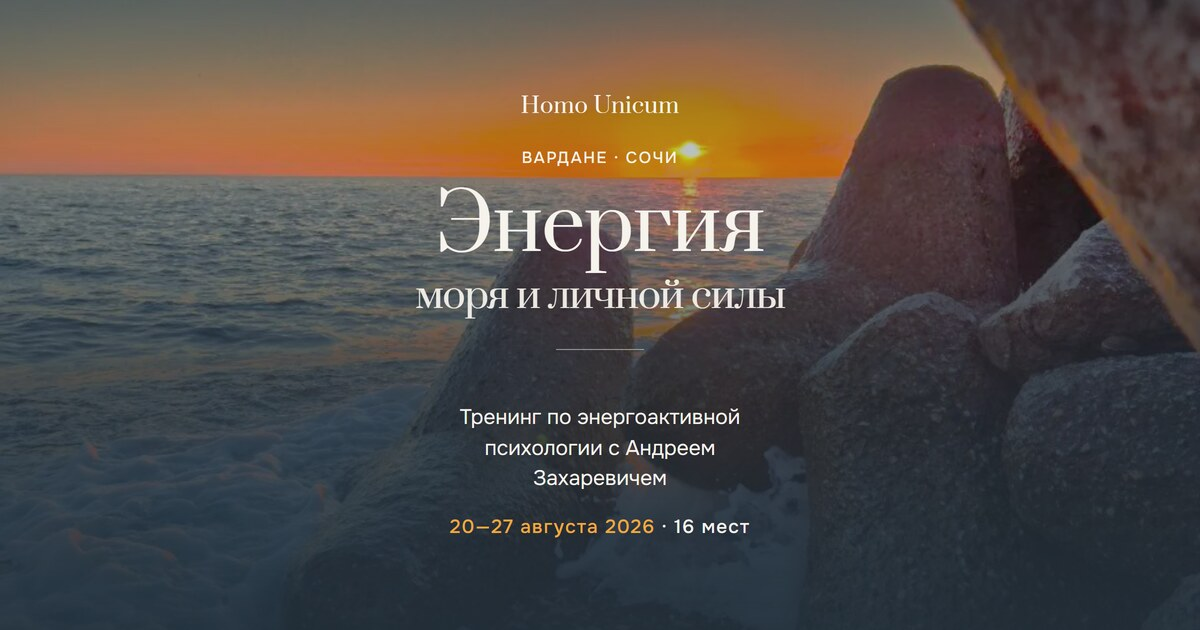
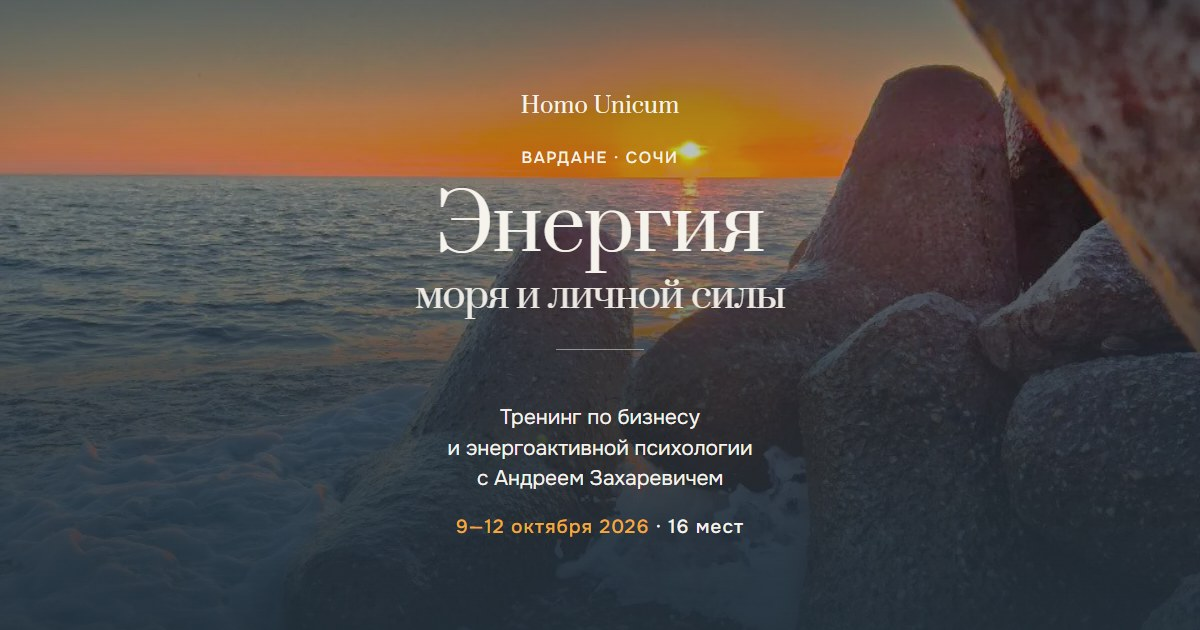
Страница переведена на тренинг 9—12 октября 2026
Августовский ретрит закончился, все три волны цены истекли и рендерились
приглушёнными — на странице не было ни одного живого предложения.

Событие заменено, а не продублировано:
- даты 9—12 октября (4 дня / 3 ночи) в title, OG, хиро, футере и JSON-LD;
  «7 дней» → «4 дня» в полосе цифр, результатах и составе участия
- ночные процессы: «через день» → одна сессия за тренинг (4 дня вместо 7),
  синхронно поправлены карточка «Что входит» и вопрос в FAQ
- дедлайны волн пересчитаны по августовским интервалам от новой даты заезда:
  24 сентября / 4 октября / 8 октября. Цена участия не менялась.
  Третья волна больше не истекает в день заезда — сдвинута на канун
- новая тарифная сетка ретрит-центра: проживание теперь с двухразовым питанием,
  от 4 000 ₽ (двухместный стандарт) до 8 000 ₽ (одноместный люкс) с человека
  в сутки. Отдельной строки «питание 1 500 ₽/день» больше нет,
  пример бюджета — от 82 000 ₽
- в FAQ добавлен вопрос «Что входит в проживание?» — про размещение
  на странице не было ни слова
- блок цен перекомпонован в два ряда: тарифная сетка удлиняла правую колонку
  на ~400 px и левая обрывалась в пустоту
- og-cover-v2.jpg перерисован: в картинку была вшита августовская дата

Заодно уходит незакоммиченное переименование площадки «Лето» → «Энергия солнца».

diff --git a/index.html b/index.html
@@ -3,16 +3,16 @@
 <head>
 <meta charset="UTF-8">
 <meta name="viewport" content="width=device-width, initial-scale=1.0">
-<title>Энергия моря и личной силы — выездной тренинг Андрея Захаревича, Вардане, 20—27 августа 2026</title>
-<meta name="description" content="Семь дней на берегу моря с автором энергоактивной психологии: снять выгорание, вернуть ясность мышления и пересобрать стратегию. Ретрит-центр «Лето», Вардане, Сочи. Участие от 70 000 ₽.">
+<title>Энергия моря и личной силы — тренинг по бизнесу Андрея Захаревича, Вардане, 9—12 октября 2026</title>
+<meta name="description" content="Четыре дня на берегу моря с автором энергоактивной психологии: снять выгорание, вернуть ясность мышления и пересобрать бизнес-стратегию. Ретрит-центр «Энергия солнца», Вардане, Сочи. Участие от 70 000 ₽.">
 <link rel="canonical" href="https://moresily.ru/">
-<meta property="og:title" content="Энергия моря и личной силы — Вардане, Сочи, 20—27 августа 2026">
-<meta property="og:description" content="Выездной тренинг Андрея Захаревича по энергоактивной психологии. Семь дней в ретрит-центре «Лето»: практики, работа с группой, море.">
+<meta property="og:title" content="Энергия моря и личной силы — Вардане, Сочи, 9—12 октября 2026">
+<meta property="og:description" content="Тренинг по бизнесу и энергоактивной психологии с Андреем Захаревичем. Четыре дня в ретрит-центре «Энергия солнца»: практики, работа с группой, море.">
 <meta property="og:type" content="website">
 <meta property="og:locale" content="ru_RU">
 <meta property="og:url" content="https://moresily.ru/">
 <meta property="og:image" content="https://moresily.ru/visual/og-cover-v2.jpg">
-<meta property="og:image:alt" content="Энергия моря и личной силы — Вардане, Сочи, 20—27 августа 2026">
+<meta property="og:image:alt" content="Энергия моря и личной силы — Вардане, Сочи, 9—12 октября 2026">
 <meta name="twitter:card" content="summary_large_image">
 <meta property="og:image:width" content="1200">
 <meta property="og:image:height" content="630">
@@ -691,9 +691,9 @@ a.sr-only:focus { left:0; top:0; width:auto; height:auto; z-index:60;
     <div class="hero-scrim"></div>
     <div class="hero-in">
       <div class="hero-bot">
-        <p class="eb hero-eb">Вардане · Сочи · 20—27 августа 2026</p>
+        <p class="eb hero-eb">Вардане · Сочи · 9—12 октября 2026</p>
         <h1 class="hero-h1"><b>Энергия</b><i>моря и личной силы</i></h1>
-        <p class="hero-sub">Тренинг по энергоактивной психологии с Андреем Захаревичем</p>
+        <p class="hero-sub">Тренинг по бизнесу и энергоактивной психологии с Андреем Захаревичем</p>
         <p class="hero-claim">Как снять выгорание, пересобрать бизнес-стратегию и выйти на кратный доход<span class="hero-up" aria-hidden="true">↑</span></p>
         <a class="btn hero-cta" href="#form">Забронировать место</a>
       </div>
@@ -705,10 +705,10 @@ a.sr-only:focus { left:0; top:0; width:auto; height:auto; z-index:60;
     <div class="wrap">
       <div class="hr hr--sea"></div>
       <div class="nums stg">
-        <div><div class="num"><span class="count" data-to="7">7</span></div><p class="eb">дней</p></div>
+        <div><div class="num"><span class="count" data-to="4">4</span></div><p class="eb">дня</p></div>
         <div><div class="num num--gold"><span class="count" data-to="16">16</span></div><p class="eb">мест в группе</p></div>
         <div><div class="num"><span class="count" data-to="40">40</span></div><p class="eb">лет практики автора</p></div>
-        <div><div class="num"><span class="num--gold">20</span>.08</div><p class="eb">заезд</p></div>
+        <div><div class="num"><span class="num--gold">09</span>.10</div><p class="eb">заезд</p></div>
       </div>
     </div>
   </section>
@@ -931,7 +931,7 @@ a.sr-only:focus { left:0; top:0; width:auto; height:auto; z-index:60;
   <!-- ================= результаты · CTA 3 ================= -->
   <section class="sec">
     <div class="wrap">
-      <p class="eb rv">Результаты · через 7 дней</p>
+      <p class="eb rv">Результаты · через 4 дня</p>
       <h2 class="rv" style="max-width:720px;">С чем вы уезжаете</h2>
       <p class="lead rv" style="max-width:640px; margin-bottom:36px;">Не «вдохновение на пару недель». Ниже — то, что участники отмечают первым по возвращении.</p>
 
@@ -994,7 +994,7 @@ a.sr-only:focus { left:0; top:0; width:auto; height:auto; z-index:60;
             <div class="slot-head"><div class="slot-t">11:00</div><h3>Утренний модуль: энергетическая система</h3></div>
             <span class="acc-sign" aria-hidden="true"></span>
           </summary>
-          <div class="acc-panel"><p>Работа с энергетической системой человека: меридианы, энергетические центры, потоки и каналы, биологические поля разной плотности. Принципы активации энергосистемы и методы энергетической защиты. Темы распределены по всей неделе.</p></div>
+          <div class="acc-panel"><p>Работа с энергетической системой человека: меридианы, энергетические центры, потоки и каналы, биологические поля разной плотности. Принципы активации энергосистемы и методы энергетической защиты. Темы распределены по всем дням тренинга.</p></div>
         </details>
 
         <details class="acc slot rv">
@@ -1039,7 +1039,7 @@ a.sr-only:focus { left:0; top:0; width:auto; height:auto; z-index:60;
         <div class="slot-t">23:00</div>
         <div>
           <h3>Ночные трансформационные процессы</h3>
-          <p>До 03:00, через день. Авторская методика Андрея Захаревича: набор энергии и формирование высокого энергетического потенциала. На следующее утро после ночной практики – мягкий режим.</p>
+          <p>Одна ночная сессия за тренинг, с 23:00 до 03:00. Авторская методика Андрея Захаревича: набор энергии и формирование высокого энергетического потенциала. Наутро после неё – мягкий режим.</p>
         </div>
       </div>
     </div>
@@ -1052,12 +1052,12 @@ a.sr-only:focus { left:0; top:0; width:auto; height:auto; z-index:60;
         <p class="eb" style="margin-bottom:26px;">Что входит в программу</p>
         <div class="grid g3 stack stack--titles stg">
           <div class="card"><h3>Многомерные дневные процессы</h3><p>Два модуля с автором ежедневно: утренний – энергетическая система человека, дневной – энергетика бизнеса.</p></div>
-          <div class="card"><h3>Ночные трансформационные процессы</h3><p>Групповая практика с 23:00 до 03:00, проходит через день. Авторская методика набора энергии; следующее утро после неё – мягкий режим.</p></div>
+          <div class="card"><h3>Ночные трансформационные процессы</h3><p>Групповая практика с 23:00 до 03:00 — одна ночь за тренинг. Авторская методика набора энергии; следующее утро после неё – мягкий режим.</p></div>
           <div class="card"><h3>Энергоактивное дыхание</h3><p>Дыхание в заданном ритме под счёт ведущего — основной инструмент метода.</p></div>
           <div class="card"><h3>Практики привлечения энергии и разгрузки</h3><p>Упражнения на снятие накопленного напряжения — телесные и на концентрацию внимания.</p></div>
           <div class="card"><h3>Биоэнергетическая йога и упражнения</h3><p>Мягкая физическая работа утром: растяжка, подвижность, дыхание в движении. Утренние практики ведёт приглашённый мастер Павитра.</p></div>
           <div class="card"><h3>Взаимодействие с природной энергетикой</h3><p>Практики на берегу и в воде: бег, ходьба, плавание в заданном режиме.</p></div>
-          <div class="card"><h3>Оздоравливающее питание и сухое голодание</h3><p>Вегетарианский рацион, два приёма пищи: завтрак и обед. Два дня за тренинг – воздержание от пищи и воды (сухой голод): строго по желанию, только после анкеты здоровья и согласования с ведущим.</p></div>
+          <div class="card"><h3>Оздоравливающее питание и сухое голодание</h3><p>Вегетарианский рацион, два приёма пищи: завтрак и обед — входят в стоимость проживания. День сухого голодания – воздержание от пищи и воды: строго по желанию, только после анкеты здоровья и согласования с ведущим.</p></div>
           <div class="card"><h3>Банные практики и холодовые воздействия</h3><p>Контрастные процедуры. Участие добровольное, интенсивность выбираете сами.</p></div>
         </div>
       </div>
@@ -1114,7 +1114,7 @@ a.sr-only:focus { left:0; top:0; width:auto; height:auto; z-index:60;
       <p class="lead rv" style="max-width:640px; margin-bottom:32px;">Что может быть лучше, чем соединить трансформационный тренинг с отдыхом в красивейшем месте на черноморском побережье.</p>
       <p class="eb rv">Ведь это</p>
       <div class="perks stg" style="max-width:1040px;">
-        <div style="display:grid; grid-template-columns:16px 1fr; gap:12px; font-size:17px; line-height:1.5;"><span class="pr" style="color:var(--sea);">—</span><span>Тёплое и ласковое море, дендрарий, озёра и водопады</span></div>
+        <div style="display:grid; grid-template-columns:16px 1fr; gap:12px; font-size:17px; line-height:1.5;"><span class="pr" style="color:var(--sea);">—</span><span>Бархатный сезон: тёплое море, дендрарий, озёра и водопады</span></div>
         <div style="display:grid; grid-template-columns:16px 1fr; gap:12px; font-size:17px; line-height:1.5;"><span class="pr" style="color:var(--sea);">—</span><span>Уникальный климат — субтропический полувлажный</span></div>
         <div style="display:grid; grid-template-columns:16px 1fr; gap:12px; font-size:17px; line-height:1.5;"><span class="pr" style="color:var(--sea);">—</span><span>Потрясающие места для практик — галечные пляжи</span></div>
         <div style="display:grid; grid-template-columns:16px 1fr; gap:12px; font-size:17px; line-height:1.5;"><span class="pr" style="color:var(--sea);">—</span><span>Активные энергетические практики при беге, ходьбе, плавании</span></div>
@@ -1128,7 +1128,7 @@ a.sr-only:focus { left:0; top:0; width:auto; height:auto; z-index:60;
   <section class="sec sec--pebble" id="venue">
     <div class="wrap">
       <p class="eb rv">Место</p>
-      <h2 class="rv" style="max-width:640px;">Ретрит-центр «Лето», Вардане</h2>
+      <h2 class="rv" style="max-width:640px;">Ретрит-центр «Энергия солнца», Вардане</h2>
       <p class="muted rv" style="max-width:var(--w-text); margin-bottom:32px;">Субтропики Лазаревского района: галечные пляжи, дендрарий, озёра и водопады. Закрытая территория на склоне над морем: три корпуса, бассейн, беседки и террасы, где проходят дневные сессии. Спуск к галечному пляжу — семь минут пешком. Во всех номерах кондиционер, холодильник, душ; охраняемая парковка.</p>
 
       <div class="collage stg">
@@ -1140,16 +1140,16 @@ a.sr-only:focus { left:0; top:0; width:auto; height:auto; z-index:60;
       <div class="hr" style="margin:36px 0 30px;"></div>
 
       <div class="g4 stg" style="gap:26px 16px;">
-        <div><div class="num num--s">3</div><p class="eb">корпуса, 8 типов номеров</p></div>
+        <div><div class="num num--s">3</div><p class="eb">корпуса и бассейн</p></div>
         <div><div class="num num--s">300 м</div><p class="eb">до моря, спуск 7 минут</p></div>
-        <div><div class="num num--s"><span class="num-pre">от</span>3 000 ₽</div><p class="eb">проживание с человека в сутки</p></div>
-        <div><div class="num num--s">1 500 ₽</div><p class="eb">питание: завтрак и обед</p></div>
+        <div><div class="num num--s"><span class="num-pre">от</span>4 000 ₽</div><p class="eb">проживание и питание, с человека в сутки</p></div>
+        <div><div class="num num--s">3 ночи</div><p class="eb">проживание 9—12 октября</p></div>
       </div>
 
       <div class="grid g3 rv" style="margin-top:36px; padding-top:32px; border-top:1px solid var(--line-soft);">
         <div>
           <p class="eb">Сбор группы</p>
-          <p class="muted" style="font-size:16px;">20 августа к 18:00 мск в отеле. Заселение с 14:00, выезд 27 августа до 12:00.</p>
+          <p class="muted" style="font-size:16px;">9 октября к 18:00 мск в отеле. Заселение с 14:00, выезд 12 октября до 12:00.</p>
         </div>
         <div>
           <p class="eb">Как добраться</p>
@@ -1314,26 +1314,26 @@ a.sr-only:focus { left:0; top:0; width:auto; height:auto; z-index:60;
   <section class="sec sec--pebble" id="price">
     <div class="wrap">
       <h2 class="rv" style="max-width:640px;">Чем раньше — тем дешевле</h2>
-      <p class="lead rv" style="max-width:600px; margin-bottom:32px;">Цена участия растёт по мере набора группы. Проживание и питание оплачиваются отдельно в ретрит-центре.</p>
+      <p class="lead rv" style="max-width:600px; margin-bottom:32px;">Цена участия растёт по мере набора группы. Проживание с двухразовым питанием оплачивается отдельно в ретрит-центре.</p>
 
       <div class="grid g3 stg" style="margin-bottom:32px;">
-        <div class="card wave" data-wave="2026-08-05" data-state="active" style="background:var(--foam);">
+        <div class="card wave" data-wave="2026-09-24" data-state="active" style="background:var(--foam);">
           <div class="wave-tag"><span class="pulse" aria-hidden="true"></span>Действует сейчас</div>
           <p class="eb" style="margin-bottom:6px;">Первая волна</p>
           <div class="wave-price">70 000 ₽</div>
-          <div class="wave-deadline">при оплате до 5 августа</div>
+          <div class="wave-deadline">при оплате до 24 сентября</div>
         </div>
-        <div class="card wave wave--dim" data-wave="2026-08-15" data-state="future" style="background:var(--foam);">
+        <div class="card wave wave--dim" data-wave="2026-10-04" data-state="future" style="background:var(--foam);">
           <div class="wave-tag"><span class="pulse" aria-hidden="true"></span>Действует сейчас</div>
           <p class="eb" style="margin-bottom:6px;">Вторая волна</p>
           <div class="wave-price">100 000 ₽</div>
-          <div class="wave-deadline">при оплате до 15 августа</div>
+          <div class="wave-deadline">при оплате до 4 октября</div>
         </div>
-        <div class="card wave wave--dim" data-wave="2026-08-20" data-state="future" style="background:var(--foam);">
+        <div class="card wave wave--dim" data-wave="2026-10-08" data-state="future" style="background:var(--foam);">
           <div class="wave-tag"><span class="pulse" aria-hidden="true"></span>Действует сейчас</div>
           <p class="eb" style="margin-bottom:6px;">Третья волна</p>
           <div class="wave-price">120 000 ₽</div>
-          <div class="wave-deadline">при оплате до 20 августа</div>
+          <div class="wave-deadline">при оплате до 8 октября</div>
         </div>
       </div>
 
@@ -1347,7 +1347,7 @@ a.sr-only:focus { left:0; top:0; width:auto; height:auto; z-index:60;
         <div>
           <p class="eb">Входит в стоимость участия</p>
           <ul style="list-style:none; padding:0; margin:0; display:grid; gap:10px; font-size:16px; color:var(--sea-ink);">
-            <li>Все групповые сессии с автором — 7 дней</li>
+            <li>Все групповые сессии с автором — 4 дня</li>
             <li>Индивидуальный разбор стратегии</li>
             <li>Утренние и вечерние практики</li>
             <li>Материалы и поддержка группы после ретрита</li>
@@ -1355,14 +1355,28 @@ a.sr-only:focus { left:0; top:0; width:auto; height:auto; z-index:60;
         </div>
         <div>
           <p class="eb">Оплачивается отдельно</p>
-          <ul style="list-style:none; padding:0; margin:0 0 24px; display:grid; gap:10px; font-size:16px; color:var(--sea-ink);">
-            <li>Проживание — от 3 000 ₽ с человека в сутки</li>
-            <li>Питание — 1 500 ₽ в день: вегетарианские завтрак и обед</li>
+          <ul style="list-style:none; padding:0; margin:0; display:grid; gap:10px; font-size:16px; color:var(--sea-ink);">
+            <li>Проживание с двухразовым питанием — от 4 000 ₽ с человека в сутки</li>
             <li>Дорога до Вардане</li>
           </ul>
+        </div>
+      </div>
+
+      <div class="grid g2 rv" style="margin-top:36px; gap:32px;">
+        <div>
+          <p class="eb" style="margin-bottom:6px;">Варианты размещения</p>
+          <ul style="list-style:none; padding:0; margin:0 0 12px; font-size:16px; color:var(--sea-ink);">
+            <li style="display:grid; grid-template-columns:1fr auto; gap:16px; align-items:baseline; padding:14px 0; border-top:1px solid var(--line-soft);"><span>Двухместный стандарт</span><span style="color:var(--ink);">4 000 ₽</span></li>
+            <li style="display:grid; grid-template-columns:1fr auto; gap:16px; align-items:baseline; padding:14px 0; border-top:1px solid var(--line-soft);"><span>Двухместный люкс</span><span style="color:var(--ink);">5 000 ₽</span></li>
+            <li style="display:grid; grid-template-columns:1fr auto; gap:16px; align-items:baseline; padding:14px 0; border-top:1px solid var(--line-soft);"><span>Одноместный стандарт</span><span style="color:var(--ink);">6 000 ₽</span></li>
+            <li style="display:grid; grid-template-columns:1fr auto; gap:16px; align-items:baseline; padding:14px 0; border-top:1px solid var(--line-soft); border-bottom:1px solid var(--line-soft);"><span>Одноместный люкс</span><span style="color:var(--ink);">8 000 ₽</span></li>
+          </ul>
+          <p style="margin:0; font-size:15px; line-height:1.55; color:var(--sea-ink);">Цены с человека в сутки. Завтрак и обед включены в стоимость номера.</p>
+        </div>
+        <div>
           <div class="card" style="background:var(--foam);">
             <p class="eb">Пример полного бюджета</p>
-            <p>Участие 70 000 ₽ + проживание 7 ночей от 21 000 ₽ + питание 10 500 ₽ = <strong style="font-weight:500; color:var(--ink);">от 101 500 ₽</strong> на человека.</p>
+            <p>Участие 70 000 ₽ + проживание с питанием 3 суток от 12 000 ₽ = <strong style="font-weight:500; color:var(--ink);">от 82 000 ₽</strong> на человека.</p>
           </div>
         </div>
       </div>
@@ -1379,12 +1393,16 @@ a.sr-only:focus { left:0; top:0; width:auto; height:auto; z-index:60;
           <div class="acc-panel"><p>Часть практик имеет противопоказания: сердечно-сосудистые заболевания в острой фазе, беременность, состояния, требующие постоянного наблюдения. Также не подойдёт тем, кто ищет «волшебную таблетку» — чтобы методика была эффективной, необходимо активное включение самого участника.</p></div>
         </details>
         <details class="acc acc--keep">
+          <summary><h3>Что входит в проживание?</h3><span class="acc-sign" aria-hidden="true"></span></summary>
+          <div class="acc-panel"><p>Номер и двухразовое питание — завтрак и обед. Оплачивается напрямую ретрит-центру: от 4 000 ₽ с человека в сутки за двухместный стандарт до 8 000 ₽ за одноместный люкс. Тип номера выбираете при бронировании.</p></div>
+        </details>
+        <details class="acc acc--keep">
           <summary><h3>Можно ли работать во время ретрита?</h3><span class="acc-sign" aria-hidden="true"></span></summary>
           <div class="acc-panel"><p>Да, свободное время – после обеда до 16:00. Но чем меньше вы работаете, тем выше результат.</p></div>
         </details>
         <details class="acc acc--keep">
-          <summary><h3>Ночные практики до трёх часов ночи – я не высплюсь?</h3><span class="acc-sign" aria-hidden="true"></span></summary>
-          <div class="acc-panel"><p>Ночные процессы проходят через день, а не ежедневно. На следующее утро – мягкий режим без ранних практик. Участники прошлых потоков отмечают, что при высоком уровне энергии восстанавливаются быстрее обычного, но режим вы регулируете сами – участие в каждой практике добровольное.</p></div>
+          <summary><h3>Ночная практика до трёх часов ночи – я не высплюсь?</h3><span class="acc-sign" aria-hidden="true"></span></summary>
+          <div class="acc-panel"><p>Ночная сессия одна за весь тренинг, не каждую ночь. На следующее утро – мягкий режим без ранних практик. Участники прошлых потоков отмечают, что при высоком уровне энергии восстанавливаются быстрее обычного, но режим вы регулируете сами – участие в каждой практике добровольное.</p></div>
         </details>
         <details class="acc acc--keep">
           <summary><h3>Что если придётся отменить поездку?</h3><span class="acc-sign" aria-hidden="true"></span></summary>
@@ -1430,7 +1448,7 @@ a.sr-only:focus { left:0; top:0; width:auto; height:auto; z-index:60;
           <h2>Забронировать место в группе</h2>
           <p style="max-width:520px;">Это ещё не оплата. Оставьте имя и контакт — расскажем условия, ответим на вопросы и пришлём полное расписание.</p>
           <p style="display:flex; align-items:center; gap:10px; color:var(--gold); font-weight:500; margin-bottom:28px;">
-            <span class="pulse" aria-hidden="true"></span>Первая волна 70 000 ₽ — при оплате до 5 августа
+            <span class="pulse" aria-hidden="true"></span>Первая волна 70 000 ₽ — при оплате до 24 сентября
           </p>
           <form id="leadForm" novalidate style="display:grid; gap:14px; max-width:480px;">
             <label for="lf-name" class="sr-only">Как к вам обращаться</label>
@@ -1459,7 +1477,7 @@ a.sr-only:focus { left:0; top:0; width:auto; height:auto; z-index:60;
 
   <footer style="padding:32px var(--px); border-top:1px solid var(--line-soft); display:flex; flex-wrap:wrap; gap:14px 24px; justify-content:space-between; align-items:center; font-size:14px; color:var(--sea);">
     <a class="pr" href="https://homounicum.org" target="_blank" rel="noopener" style="color:var(--ink); font-size:15px;">Homo Unicum</a>
-    <span>Вардане, Сочи · 20—27 августа 2026</span>
+    <span>Вардане, Сочи · 9—12 октября 2026</span>
     <span><a href="https://homounicum.org/public_offer" target="_blank" rel="noopener">Оферта</a> · <a href="./privacy">Политика обработки данных</a></span>
   </footer>
 
@@ -1467,26 +1485,26 @@ a.sr-only:focus { left:0; top:0; width:auto; height:auto; z-index:60;
 
 <!-- CTA 2: липкая панель, живёт от конца первого экрана до формы -->
 <div class="mobile-bar" id="mobileBar">
-  <p>Первая волна 70 000 ₽ · до 5 августа</p>
+  <p>Первая волна 70 000 ₽ · до 24 сентября</p>
   <a class="btn" href="#form">Забронировать</a>
 </div>
 
 <script type="application/ld+json">
 {
   "@context":"https://schema.org","@type":"Event",
-  "name":"Энергия моря и личной силы — выездной тренинг Андрея Захаревича",
-  "description":"Тренинг по энергоактивной психологии в ретрит-центре «Лето» в Вардане: практики, работа с группой, море. Семь дней.",
-  "startDate":"2026-08-20T18:00+03:00","endDate":"2026-08-27T12:00+03:00",
+  "name":"Энергия моря и личной силы — тренинг по бизнесу Андрея Захаревича",
+  "description":"Тренинг по бизнесу и энергоактивной психологии в ретрит-центре «Энергия солнца» в Вардане: практики, работа с группой, море. Четыре дня.",
+  "startDate":"2026-10-09T18:00+03:00","endDate":"2026-10-12T12:00+03:00",
   "eventStatus":"https://schema.org/EventScheduled",
   "eventAttendanceMode":"https://schema.org/OfflineEventAttendanceMode","inLanguage":"ru",
   "image":"https://moresily.ru/visual/og-cover-v2.jpg",
-  "location":{"@type":"Place","name":"Ретрит-центр «Лето»","address":{"@type":"PostalAddress","streetAddress":"ул. Рассветная, 22/14","addressLocality":"пос. Вардане, Лазаревский район, Сочи","addressRegion":"Краснодарский край","addressCountry":"RU"}},
+  "location":{"@type":"Place","name":"Ретрит-центр «Энергия солнца»","address":{"@type":"PostalAddress","streetAddress":"ул. Рассветная, 22/14","addressLocality":"пос. Вардане, Лазаревский район, Сочи","addressRegion":"Краснодарский край","addressCountry":"RU"}},
   "performer":{"@type":"Person","name":"Андрей Станиславович Захаревич"},
   "organizer":{"@type":"Organization","name":"Академия энергоактивной психологии Андрея Захаревича","url":"https://homounicum.org","email":"info@reshomounicum.ru"},
   "offers":[
-    {"@type":"Offer","name":"Первая волна","price":"70000","priceCurrency":"RUB","validThrough":"2026-08-05T23:59+03:00","availability":"https://schema.org/InStock","url":"https://moresily.ru/#price"},
-    {"@type":"Offer","name":"Вторая волна","price":"100000","priceCurrency":"RUB","validThrough":"2026-08-15T23:59+03:00","availability":"https://schema.org/InStock","url":"https://moresily.ru/#price"},
-    {"@type":"Offer","name":"Третья волна","price":"120000","priceCurrency":"RUB","validThrough":"2026-08-20T23:59+03:00","availability":"https://schema.org/InStock","url":"https://moresily.ru/#price"}
+    {"@type":"Offer","name":"Первая волна","price":"70000","priceCurrency":"RUB","validThrough":"2026-09-24T23:59+03:00","availability":"https://schema.org/InStock","url":"https://moresily.ru/#price"},
+    {"@type":"Offer","name":"Вторая волна","price":"100000","priceCurrency":"RUB","validThrough":"2026-10-04T23:59+03:00","availability":"https://schema.org/InStock","url":"https://moresily.ru/#price"},
+    {"@type":"Offer","name":"Третья волна","price":"120000","priceCurrency":"RUB","validThrough":"2026-10-08T23:59+03:00","availability":"https://schema.org/InStock","url":"https://moresily.ru/#price"}
   ]
 }
 </script>

diff --git a/privacy.html b/privacy.html
@@ -32,7 +32,7 @@
     <p>Настоящая Политика определяет порядок обработки персональных данных посетителей сайта
        и меры по их защите. Оператор персональных данных: <b>самозанятая Телегина Ксения
        Васильевна</b> (далее — «Оператор»). Сайт посвящён выездному тренингу
-       «Энергия моря и личной силы» (20–27 августа 2026, пос. Вардане, Сочи).
+       «Энергия моря и личной силы» (9—12 октября 2026, пос. Вардане, Сочи).
        Используя форму заявки, посетитель подтверждает согласие с настоящей Политикой
        и Федеральным законом № 152-ФЗ «О персональных данных».</p>
 

diff --git a/visual/og-cover-source.html b/visual/og-cover-source.html
@@ -42,8 +42,8 @@
     <div class="eb">Вардане · Сочи</div>
     <h1>Энергия<i>моря и личной силы</i></h1>
     <div class="rule"></div>
-    <div class="lead">Тренинг по энергоактивной психологии с Андреем Захаревичем</div>
-    <div class="date" style="margin-top:22px;"><b>20—27 августа 2026</b> · 16 мест</div>
+    <div class="lead">Тренинг по бизнесу<br>и энергоактивной психологии<br>с Андреем Захаревичем</div>
+    <div class="date" style="margin-top:22px;"><b>9—12 октября 2026</b> · 16 мест</div>
   </div>
 </body>
 </html>
